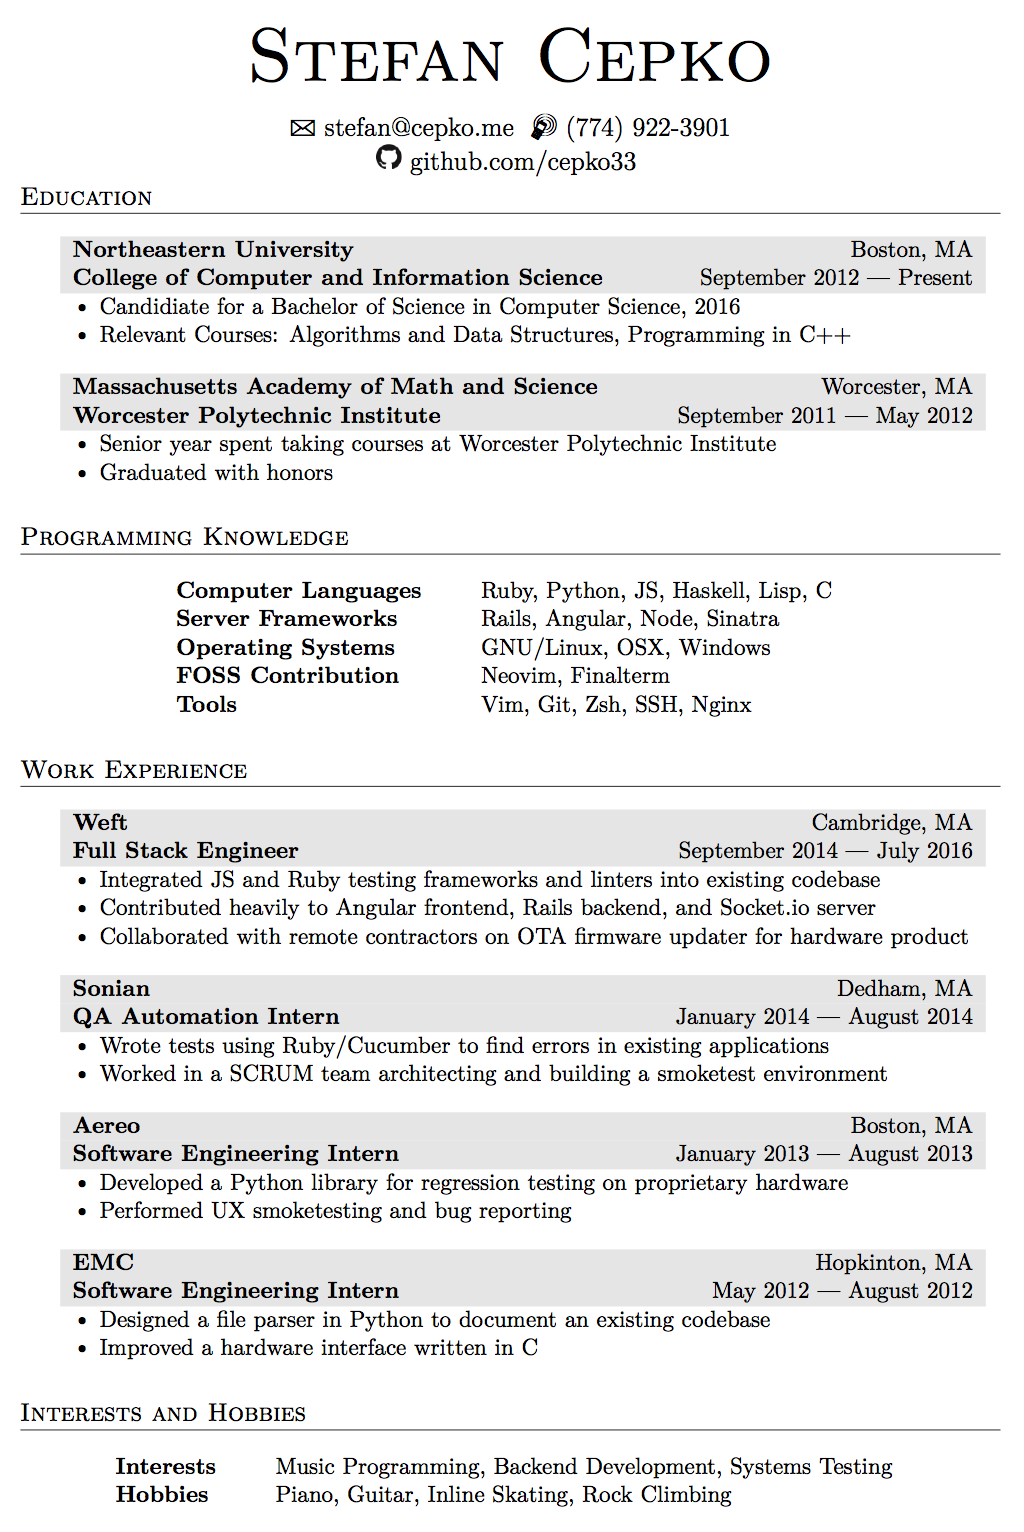
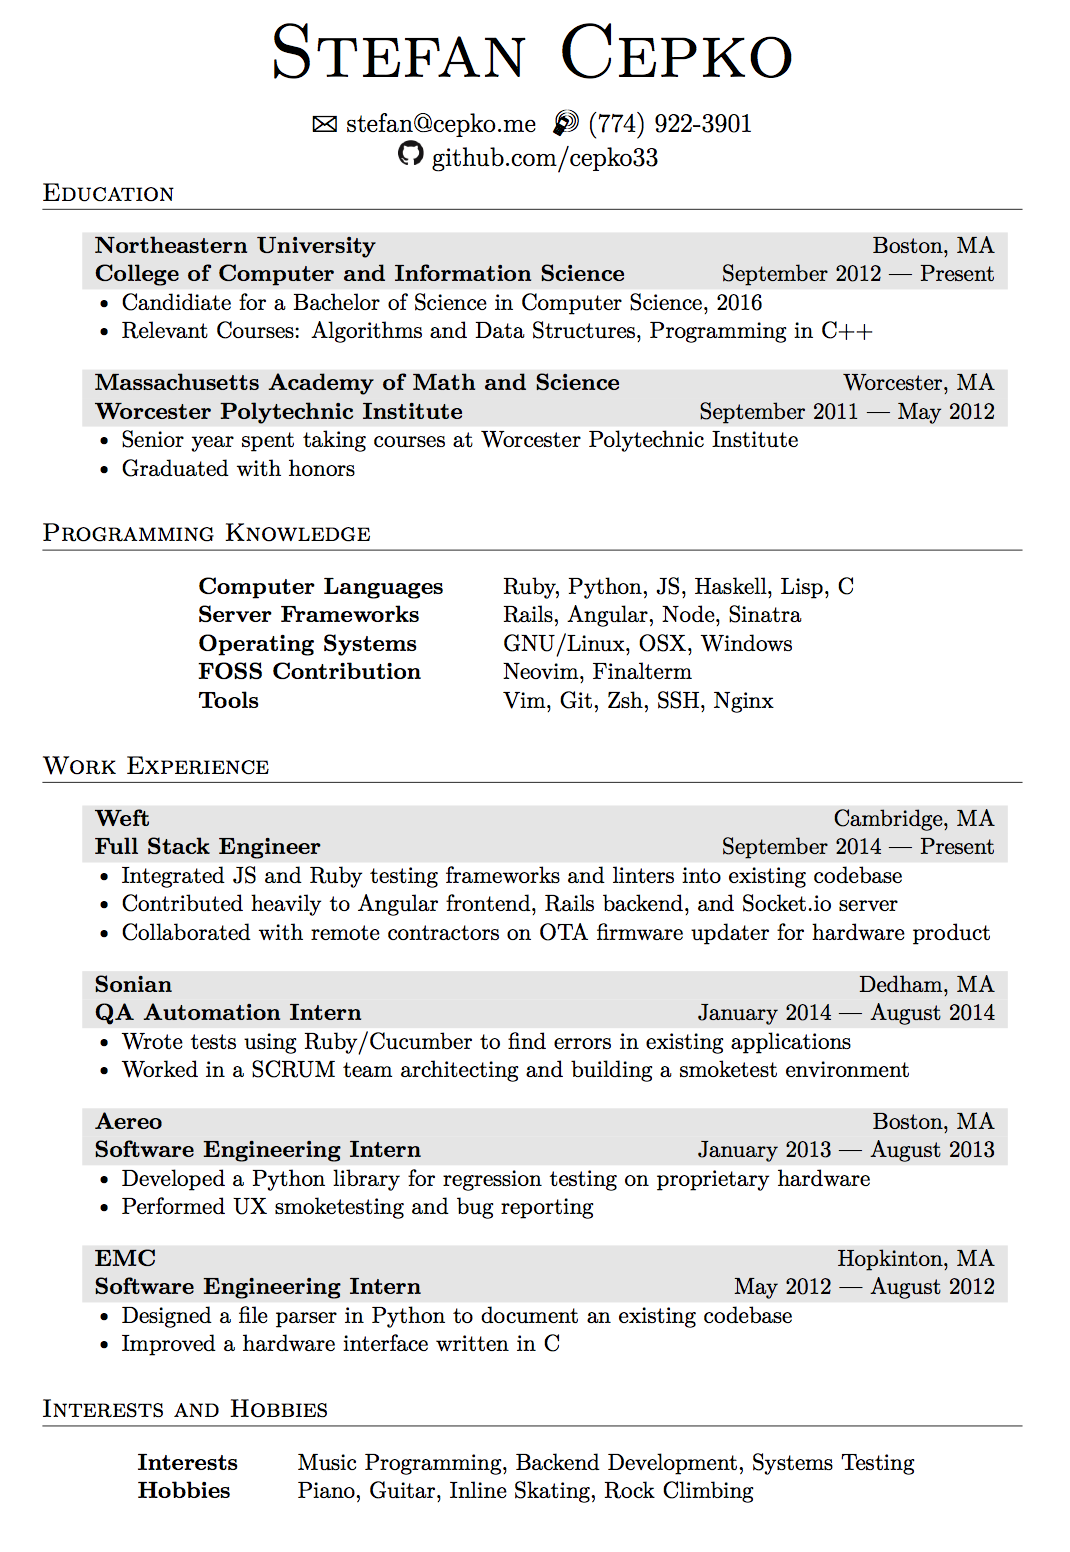
Fixed date range

Changed region(s): [[0.0312, 0.0, 0.9688, 0.9817]]

diff --git a/resume.tex b/resume.tex
@@ -117,7 +117,7 @@ Tools & Vim, Git, Zsh, SSH, Nginx \\
 
 \begin{tabularx}{0.97\linewidth}{>{\raggedleft\scshape}p{0cm}X}
 & \gray \textbf{Weft} \hfill Cambridge, MA\\
-& \gray \textbf{Full Stack Engineer} \hfill September 2014 --- July 2016\\
+& \gray \textbf{Full Stack Engineer} \hfill September 2014 --- Present\\
 
 & {\large\textbullet} Integrated JS and Ruby testing frameworks and linters into existing codebase \\
 & {\large\textbullet} Contributed heavily to Angular frontend, Rails backend, and Socket.io server  \\
